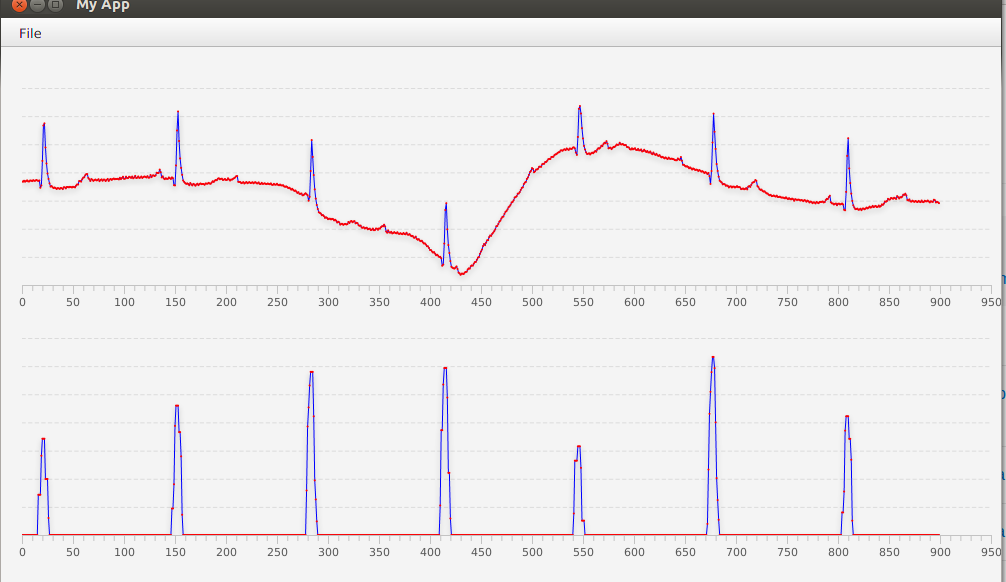
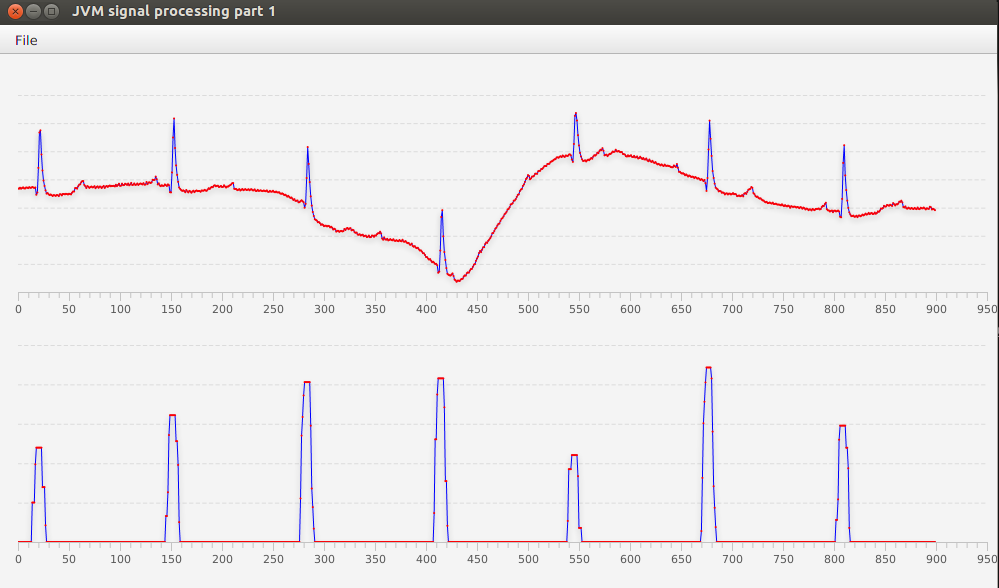
u

diff --git a/sig-dip/src/main/java/obj/EntryPoint.java b/sig-dip/src/main/java/obj/EntryPoint.java
@@ -15,7 +15,7 @@ public class EntryPoint extends Application {
     @Override
     public void start(Stage primaryStage) throws Exception{
         Parent root = FXMLLoader.load(getClass().getClassLoader().getResource(FXML+"BasePanel.fxml"));
-        primaryStage.setTitle("My App");
+        primaryStage.setTitle("JVM signal processing part 1");
         primaryStage.setScene(new Scene(root, 1000, 600));
         primaryStage.show();
     }
